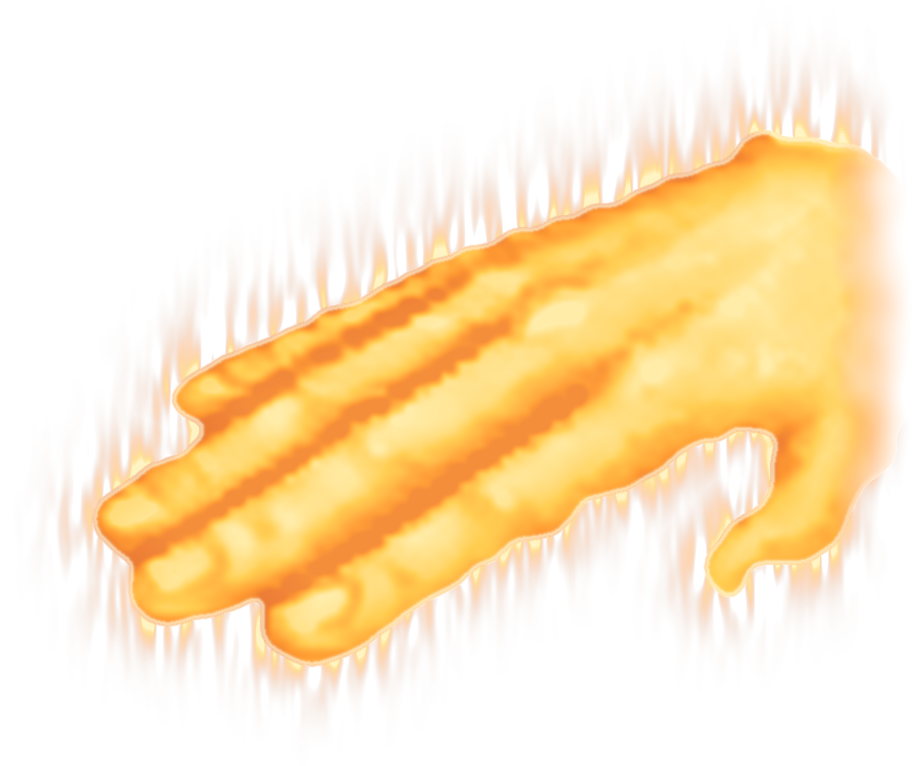
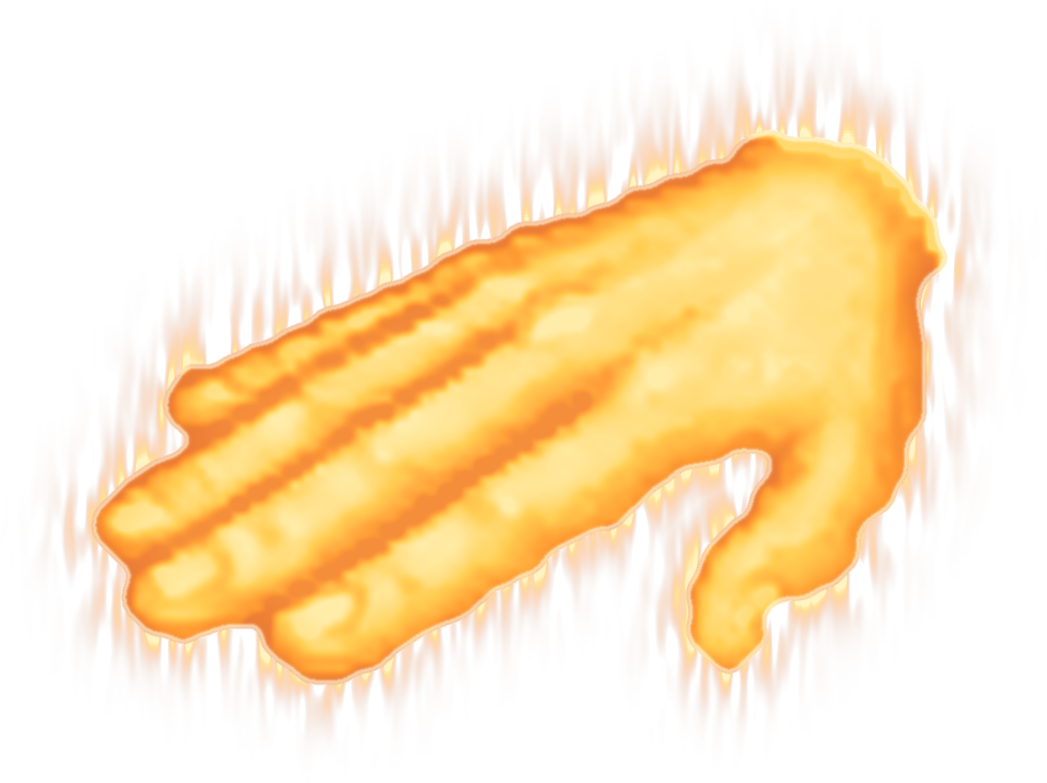
art: bàn tay năng lượng giữ trọn dáng mẫu (bỏ cắt cổ tay, lấy đủ ngón cái + mép phải) — chờ duyệt
Claude-Session: https://claude.ai/code/session_014A94BHnyL4tu48AS77QbVM

diff --git a/tools/art/phap_tuong.py b/tools/art/phap_tuong.py
@@ -113,11 +113,12 @@ def palm():
     a = np.array(src).astype(float)
     R, G, B = a[..., 0], a[..., 1], a[..., 2]
     skin = (R - B > 18) & (R > 140) & (G > 110)
+    pale = (R > 170) & (G > 130) & (np.abs(R - B) < 60) & (a.min(2) < 245)   # da nhạt / hồng (ngón cái, mép phải)
+    skin = skin | (pale & ndimage.binary_dilation(skin, iterations=4))
     m = ndimage.binary_fill_holes(ndimage.binary_closing(skin, iterations=2))
-    m = ndimage.binary_opening(m, iterations=1)
     lab, n = ndimage.label(m)
     m = lab == (np.argmax(ndimage.sum(m, lab, range(1, n + 1))) + 1)
-    m = ndimage.binary_dilation(m, iterations=1)                              # gồm cả viền tay của mẫu
+    m = ndimage.binary_dilation(m, iterations=2)                              # gồm cả viền tay của mẫu
     PAD = 14
     m = np.pad(m, PAD); a = np.pad(a, ((PAD, PAD), (PAD, PAD), (0, 0)), mode='edge')
     h0, w0 = m.shape
@@ -141,7 +142,7 @@ def palm():
     xs = np.nonzero(f.any(0))[0]
     x1 = xs.max()
     wn = xx + ndimage.gaussian_filter(np.random.default_rng(4).standard_normal((H, W)), 8 * UPS / 3) * 220
-    cut = np.clip((x1 - 4 * UPS - wn) / (12 * UPS), 0, 1) ** 1.3
+    cut = np.ones((H, W))                                                     # mẫu không có cổ tay → giữ trọn bàn tay
     col = col * cut[..., None] + np.array([255, 135, 25.]) * (1 - cut[..., None])
     bodyA = np.maximum(fm * (0.85 + 0.15 * ln), rim * 0.95) * cut
     # quầng + lửa bốc lên
